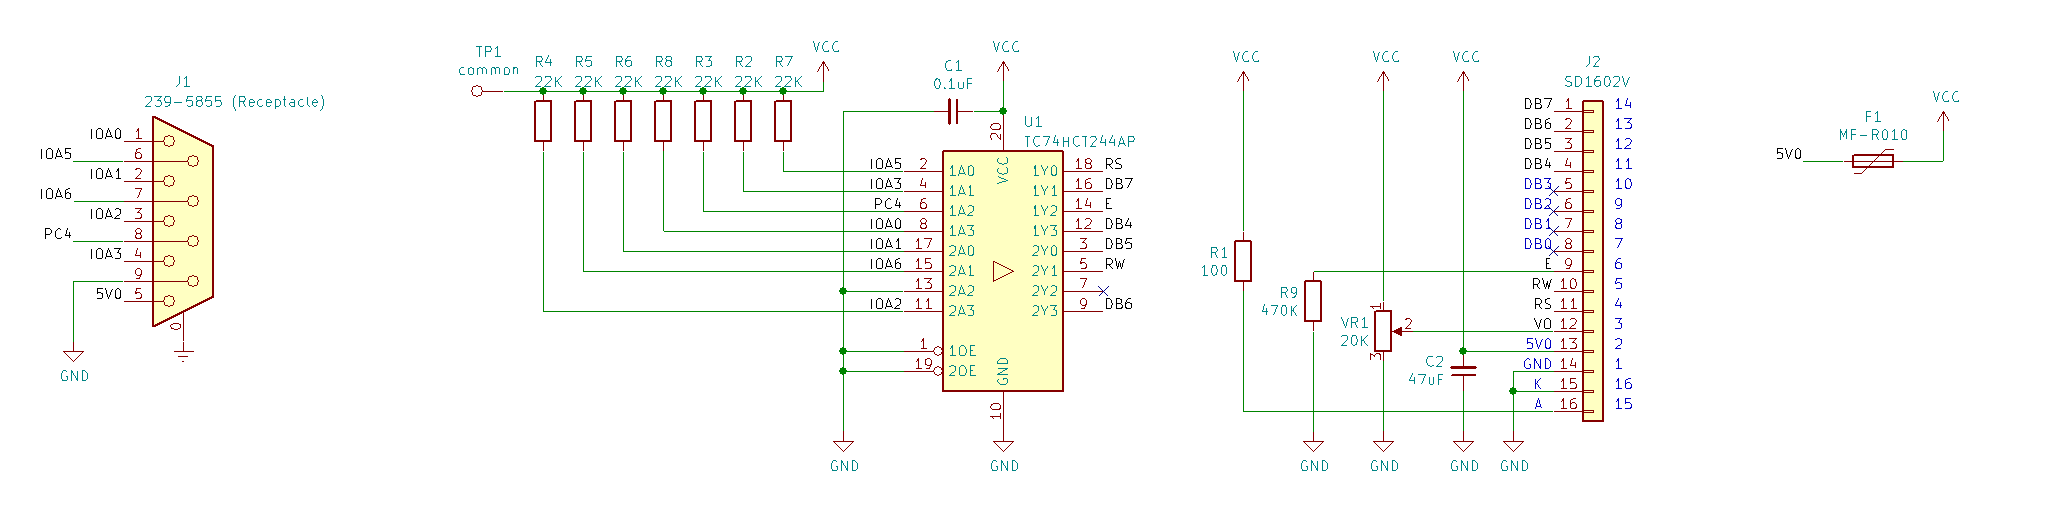
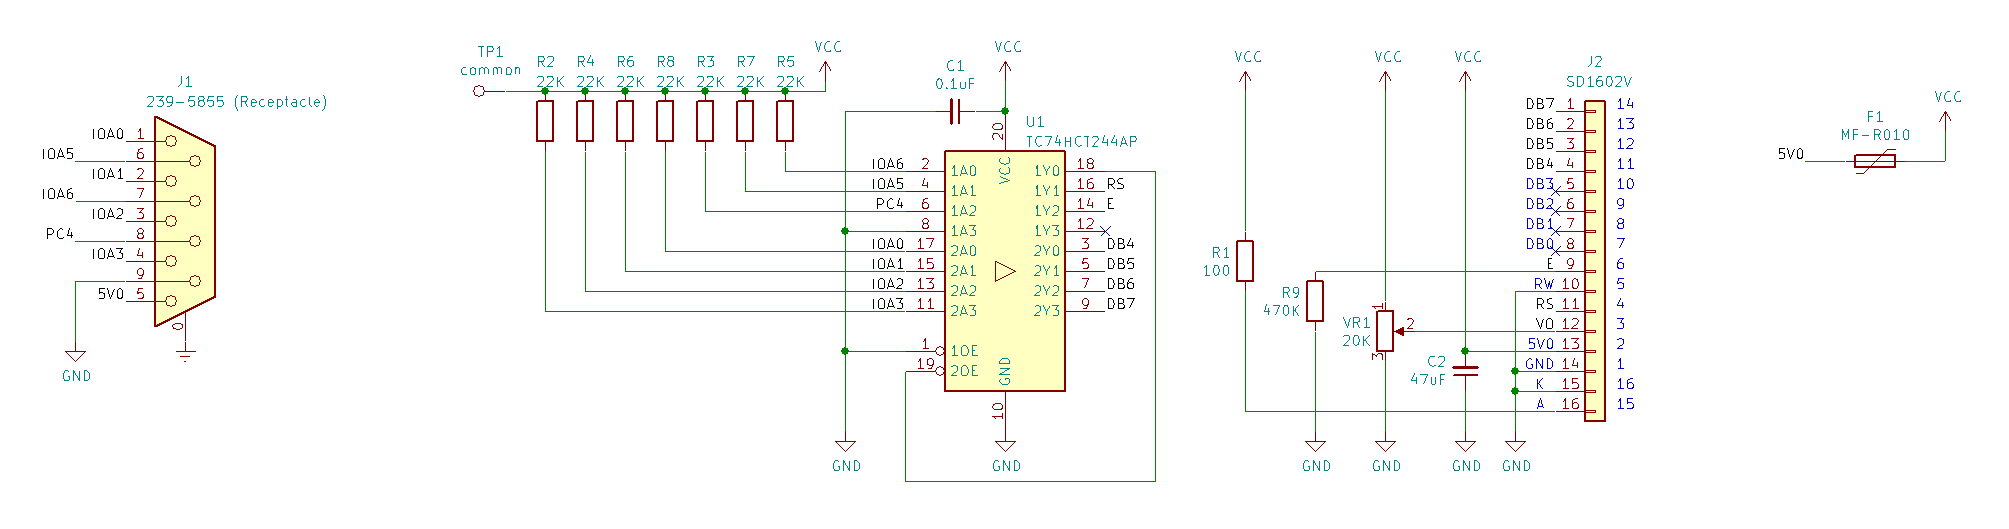
回路図修正
Rev.D回路図におけるR/W信号線の扱いを反映できていなかったのを修正

diff --git a/doc/Shiromado-kun-CF/index.html b/doc/Shiromado-kun-CF/index.html
@@ -38,7 +38,7 @@
 <ul>
 	<li>R2～R8<br>
 		X680x0に直結する場合、X680x0側にプルアップ抵抗が実装されているため、白窓君側のプルアップ抵抗は必須ではありません。<br>
-		USB joypad to X680x0に直結する場合は各端子がフローティング状態にならないよう処理されるため、プルアップ抵抗は不要です。
+		USB joypad to X680x0に直結する場合は各端子がフローティング状態にならないよう処理されるため、プルアップ抵抗は必須ではありません。
 	<li>R9<br>
 		本基板上のU1(TC74HCT244AP)および上記によりE端子はフローティング状態にはならないため、プルダウン抵抗は不要です。
 </ul>
